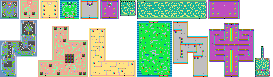
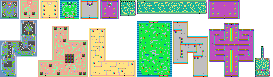
[FIX] EVERYTHING MAP

Changed region(s): [[0.4982, 0.1299, 0.7619, 0.2597]]

diff --git a/opengltest/MapLoader.cpp b/opengltest/MapLoader.cpp
@@ -28,7 +28,7 @@
 
 #define MAP_ID_7_POSITION {255,46,15,31} //Tutorial
 
-#define MAP_ID_9_POSITION {137,0,70,19} //Boss Path
+#define MAP_ID_9_POSITION {137,0,70,14} //Boss Path
 #define MAP_ID_10_POSITION {208,0,32,19} //Boss Room
 
 struct Rect
@@ -75,6 +75,8 @@ bool MapLoader::LoadMap(int mapID)
 	case 5: mapData = MAP_ID_5_POSITION; break;
 	case 6: mapData = MAP_ID_6_POSITION; break;
 	case 7: mapData = MAP_ID_7_POSITION; break;
+	case 9: mapData = MAP_ID_9_POSITION; break;
+	case 10: mapData = MAP_ID_10_POSITION; break;
 	case 11: mapData = MAP_ID_11_POSITION; break;
 	case 12: mapData = MAP_ID_12_POSITION; break;
 	case 13: mapData = MAP_ID_13_POSITION; break;
